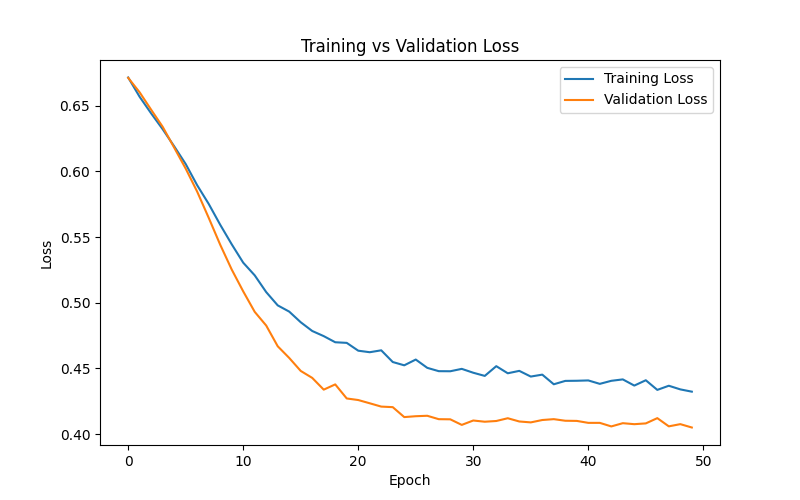
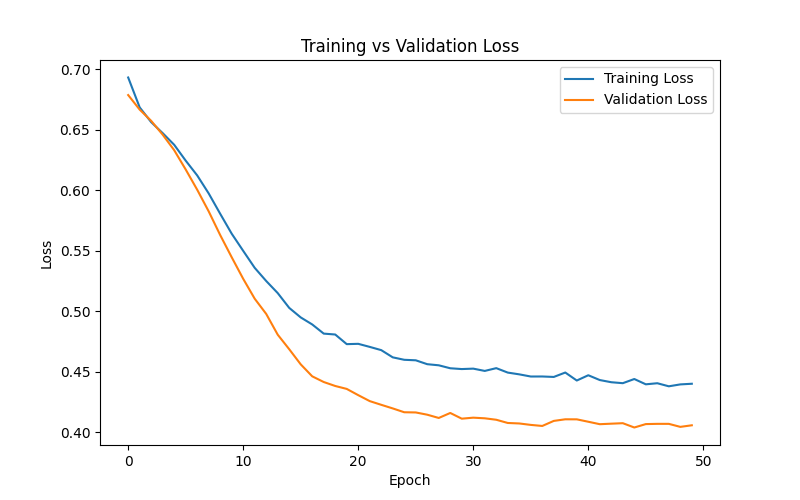
Added MLP comparison and model analysis

diff --git a/mlp_model.py b/mlp_model.py
@@ -90,3 +90,28 @@ plt.legend()
 
 plt.savefig("results/mlp_loss_curve.png")
 plt.show()
+from sklearn.metrics import accuracy_score, precision_score, recall_score, f1_score, roc_auc_score
+
+y_pred = (model.predict(X_test) > 0.5).astype(int)
+
+accuracy = accuracy_score(y_test, y_pred)
+precision = precision_score(y_test, y_pred)
+recall = recall_score(y_test, y_pred)
+f1 = f1_score(y_test, y_pred)
+auc = roc_auc_score(y_test, y_pred)
+
+results = pd.DataFrame({
+    "model": ["MLP"],
+    "accuracy": [accuracy],
+    "precision": [precision],
+    "recall": [recall],
+    "f1": [f1],
+    "auc_roc": [auc]
+})
+
+results.to_csv(
+    "results/results_log.csv",
+    mode="a",
+    header=False,
+    index=False
+)

diff --git a/model_comparison.md b/model_comparison.md
@@ -2,7 +2,12 @@
 
 | Model | Accuracy | Precision | Recall | F1 Score | AUC-ROC |
 |---------|---------|---------|---------|---------|---------|
-| Logistic Regression | UPDATE | UPDATE | UPDATE | UPDATE | UPDATE |
+| Logistic Regression | 0.7078 | 0.6047 | 0.4815 | 0.5361 | 0.8067 |
 | DT | 0.6883 | 0.6364 | 0.2593 | 0.3684 | 0.7641 |
-| RF | UPDATE | UPDATE | UPDATE | UPDATE | UPDATE |
-| SVM | UPDATE | UPDATE | UPDATE | UPDATE | UPDATE |
+| RF | 0.7727 | 0.7111 | 0.5926 | 0.6465 | 0.8170 |
+| SVM | 0.7079 | 0.6047 | 0.4815 | 0.5361 | 0.8165 |
+| MLP | 0.7208 | 0.6122 | 0.5556 | 0.5825 | 0.6828 |
+
+## Model Analysis
+
+Among all the models evaluated, Random Forest achieved the highest F1 Score of 0.6465. The F1 Score is important because it balances both precision and recall, making it suitable for healthcare datasets where class imbalance exists. Random Forest performed better because it combines multiple Decision Trees, reducing overfitting and improving generalization. As a result, it was able to identify diabetic patients more effectively while maintaining good prediction accuracy, making it the strongest baseline model in our study.
